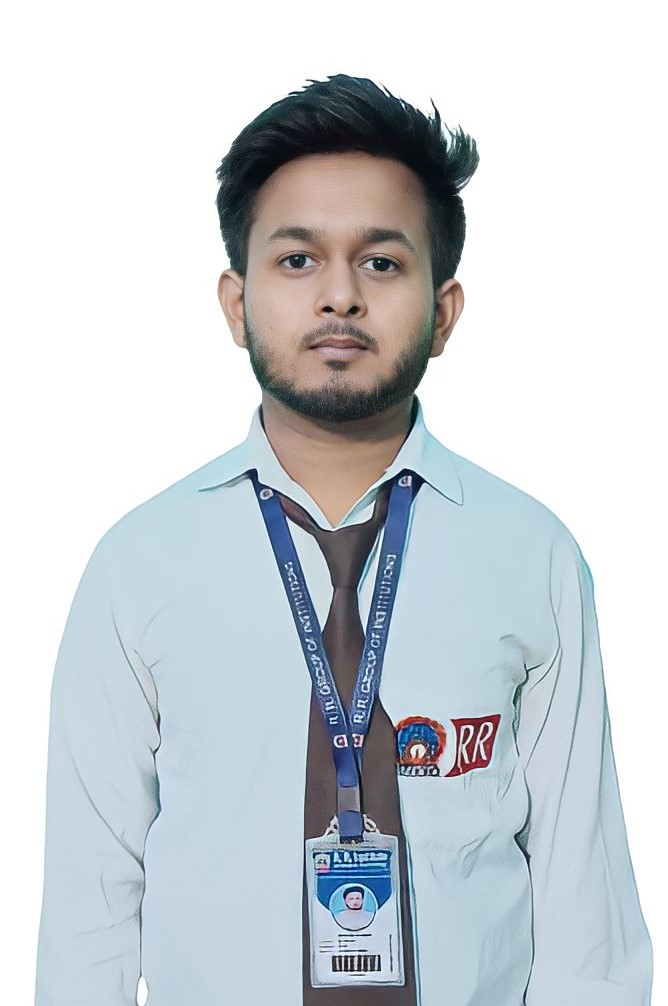
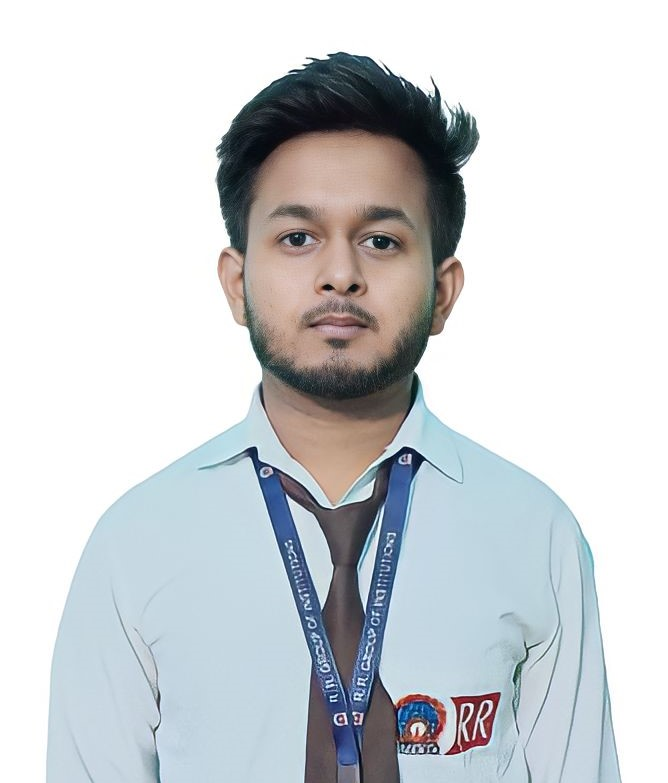
update

Changed region(s): [[0.0299, 0.0613, 0.988, 1.0]]

diff --git a/src/component/about/About.css b/src/component/about/About.css
@@ -3,6 +3,7 @@
     display: grid;
     grid-template-columns: 35% 50%;
     gap: 15%;
+    margin-left: 287px;
    
 }
 h2{
@@ -10,38 +11,39 @@ h2{
     font-family: 'Satisfy', cursive;
     font-size:3rem;
 }
-.about-me{
+/* .about-me{
     width: 50%;
-    aspect-ratio: 1/1;
+    aspect-ratio: 2/1;
     border-radius: 2rem;
     background:linear-gradient(45deg,transparent, #FF91A4,transparent);
     display: grid;
     place-items:center;
     margin-left: 10rem;
    
-}
+} */
 section{
     margin-top: 4rem;
 }
-.about-image{
+     /* .about-image{
     border-radius: 2rem;
-    /* width: 25rem; */
+    width: 25rem;
     overflow: hidden;
     transform: rotate(10deg);
     transition: all  400ms ease;
     
-}
-.about-image:hover{
+     } */
+/* .about-image:hover{
     transform: rotate(0deg);
-}
-.about-cards{
+} */
+/* .about-cards{
     display: grid;
     grid-template-columns: repeat(2, 1fr);
-    gap: 1.5rem;
+    gap: 1rem;
+    width: 200px;
     
 
-}
-.about-card{
+} */
+/* .about-card{
     background-color: #ff1654;
     border:1px solid transparent;
     border-radius: 1rem;
@@ -49,35 +51,43 @@ section{
     text-align: center;
     color: whitesmoke;
     
-}
-.about-card:hover{
+} */
+/* .about-card:hover{
     background-color:#ff1654;
     color: white;
     cursor: default;
-}
-.about-icon{
+} */
+/* .about-icon{
     color: aliceblue;
     font-size: 1.4rem;
     margin-bottom: 1rem;
 
-}
-.about-card small{
+} */
+/* .about-card small{
     font-size: 0.8rem ;
-    /* color: white; */
-}
-.about-card h3{
+    color: white;
+} */
+/* .about-card h3{
     font-size: 0.95rem;
-}
-.about-content p{
-    margin: 2rem 0 2.6rem;
+} */
+.about-content{
+    margin: 1rem 15rem;
+    text-align: center;
     
+} 
+.about-content p{
+    margin: 1rem auto;
 }
+/* .about-content .btn-primary{
+   margin: ;
+} */
 /* --------MEDIA QURIES (MEDIUM DEVICES) */
 
 @media screen and (max-width:1024px) {
     .about-container{
         grid-template-columns: 1fr;
         gap: 0;
+        margin-left: 30px;
     }
     .about-me{
         width: 30%;
@@ -85,7 +95,7 @@ section{
 
     }
     .about-content p {
-        margin: 3rem 0 1.9rem;
+        margin: 3rem  -10rem;
     }
    
   }
@@ -94,6 +104,9 @@ section{
   /* --------MEDIA QURIES (SMALL DEVICES) */
   
   @media screen and (max-width:600px) {
+    .about-container{
+        margin-left: 10px;
+    }
     .about-me{
         width: 50%;
         margin: 3rem auto 5rem;
@@ -104,11 +117,11 @@ section{
         gap: 1rem;
 
     }
-    .about-content{
+    /* .about-content{
         text-align: center;
-    }
+    } */
     .about-content p {
-        margin: 1.5rem 0;
+        margin: 1rem -14rem;
     }
     
   }

diff --git a/src/component/about/About.js b/src/component/about/About.js
@@ -10,42 +10,24 @@ const About = () => {
             {/* <h5>Get to know</h5> */}
             <h2>About Me</h2>
 
-            <div className='container about-container'>
-                <div className='about-me'>
-                    <div className='about-image'>
+
+
+            {/* <div className='about-image'>
                         <img src={AboutImage} alt='about-image' style={{ width: '220px', height: '280px' }} />
-                    </div>
-
-                </div>
-
-                {/* about content */}
-
-                <div className='about-content'>
-                    <div className='about-cards'>
-                        <article className='about-card'>
-                            <FiAward className='about-icon' />
-                            <h3>Experienced</h3>
-                            <small>Fresher</small>
-                        </article>
+                    </div> */}
 
 
 
+            {/* about content */}
 
-                        <article className='about-card'>
-                            <VscFolderActive className='about-icon' />
-                            <h3>Projects</h3>
-                            <small>10+</small>
-                        </article>
+            <div className='about-content'>
 
-
-
-                    </div>
-                    <p className='about-content'>Innovative Front End Developer  building and maintaining responsive websites in the recruiting industry. Proficient in HTML, CSS,JavaScript and React.Js,Tailwind,Bootstrap; plus modern libraries and frameworks. Passionate about usability and possess working knowledge of React Native</p>
-                    <a href='#contact' className='btn btn-primary'> let's Talk</a>
-                </div>
+                <p>Innovative Front End Developer  building and maintaining responsive websites in the recruiting industry. Proficient in HTML, CSS,JavaScript and React.Js,Tailwind,Bootstrap; plus modern libraries and frameworks. Passionate about usability and possess working knowledge of React Native</p>
+                <a href='#contact' className='btn btn-primary' > let's Talk</a>
             </div>
 
-        </section>
+
+        </section >
     )
 }
 

diff --git a/src/component/portfolio/Portfolio.js b/src/component/portfolio/Portfolio.js
@@ -1,9 +1,9 @@
 import React from 'react'
 import './Portfolio.css'
-import IMG1 from '../../assets/Redmi.jpg'
+import IMG1 from '../../assets/xiaomi.jpg'
 import IMG2 from '../../assets/Shoping.jpg'
 import IMG3 from '../../assets/Fitness.jpg'
-import IMG4 from '../../assets/Redmi.jpg'
+import IMG4 from '../../assets/MI.jpg'
 import IMG5 from '../../assets/Redmi.jpg'
 <script>
     @import url('https://fonts.googleapis.com/css2?family=Poppins:wght@300;400;500;600&family=Satisfy&display=swap');
@@ -34,13 +34,13 @@ const Portfolio = () => {
         },
         {
             id: 4,
-            image: 'file:///C:/Users/Deepak%20kumar/Downloads/Weather.webp',
+            image: IMG5,
             title: 'Weather Application',
             github: 'https://github.com/Deepakkumar586/Weather-App',
         },
         {
             id: 5,
-            image: IMG5,
+            image: IMG1,
             title: 'Weather Application',
             github: 'https://github.com',
         }

diff --git a/src/component/header/Header.css b/src/component/header/Header.css
@@ -1,6 +1,6 @@
 @import url('https://fonts.googleapis.com/css2?family=Poppins:wght@300;400;500;600&family=Satisfy&display=swap');
 header{
-    height: 120vh;
+    height: 130vh;
     padding-top: 7rem;
     overflow: hidden;
     /* background-color: #E7E0C4; */
@@ -53,9 +53,9 @@ header{
 
 /* ---------IMAGE--------- */
 .me{
-    background:linear-gradient(rgb(101, 211, 211),transparent);
+    /* background:linear-gradient(rgb(101, 211, 211),transparent); */
     width: 22rem;
-    height: 30rem;
+    height: 40rem;
     position:absolute;
     left: calc(50% - 11rem);
     margin-top: 4rem;

diff --git a/src/component/services/Services.js b/src/component/services/Services.js
@@ -85,7 +85,7 @@ const Services = () => {
                 </article> */}
 
 
-                <article className='service'>
+                {/* <article className='service'>
                     <div className='service-head'>
                         <h3>App Development</h3>
                     </div>
@@ -120,7 +120,7 @@ const Services = () => {
                         </li>
 
                     </ul>
-                </article>
+                </article> */}
             </div>
 
 

diff --git a/src/component/header/Header.js b/src/component/header/Header.js
@@ -1,7 +1,7 @@
 
 import React from 'react'
 import CTA from './CTA'
-import ME from '../../assets/Aryan.jpg'
+import ME from '../../assets/deep.jpg'
 import HeaderSocials from './HeaderSocials'
 import './Header.css'
 

diff --git a/src/App.js b/src/App.js
@@ -16,7 +16,7 @@ function App() {
       <Nav />
       <About />
       <Experience />
-      <Services />
+      {/* <Services /> */}
       <Portfolio />
       {/* <Testimonials /> */}
       <Contact />

diff --git a/src/component/experience/Experience.css b/src/component/experience/Experience.css
@@ -66,7 +66,8 @@
   
   @media screen and (max-width:600px) {
     .experience_container{
-        gap: 1rem;
+        gap: 2rem;
+        
     }
     .experience_container div{
         width: 80%;

diff --git a/src/component/experience/Experience.js b/src/component/experience/Experience.js
@@ -92,6 +92,7 @@ const Experience = () => {
 
 
                         </article>
+                        
                     </div>
 
                 </div>
